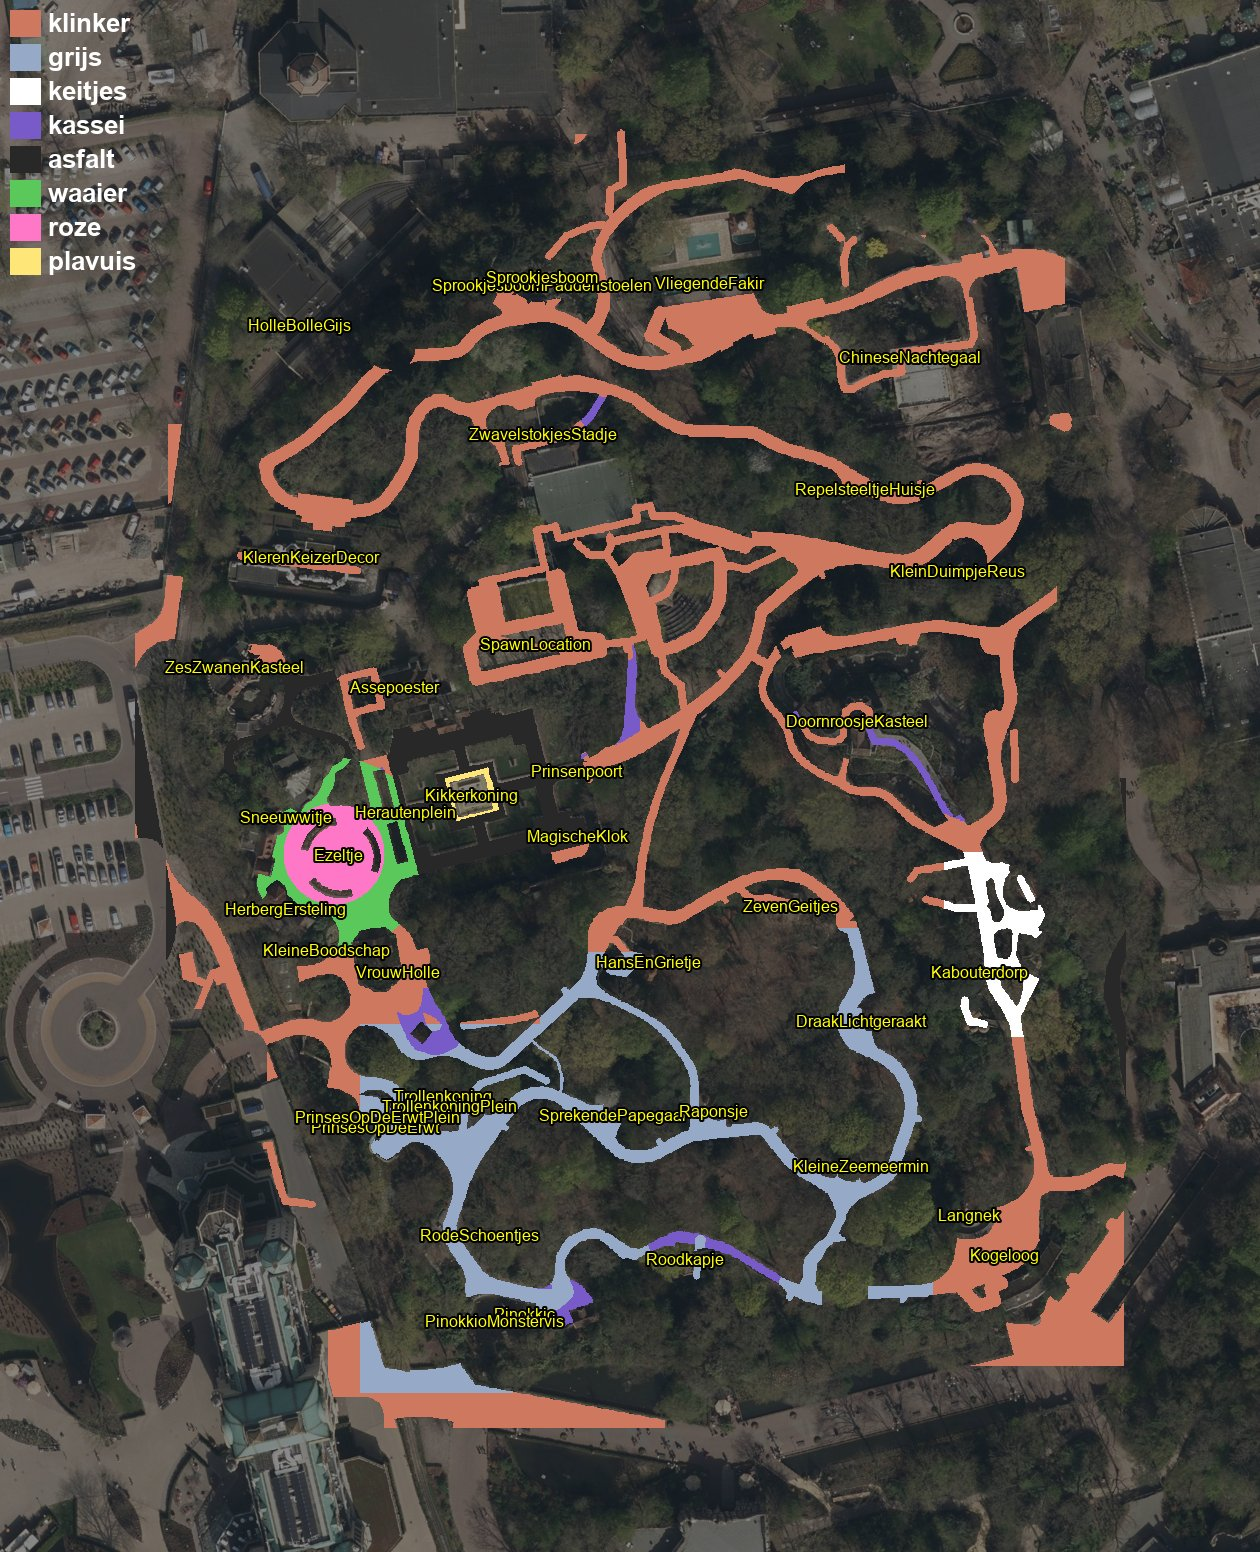
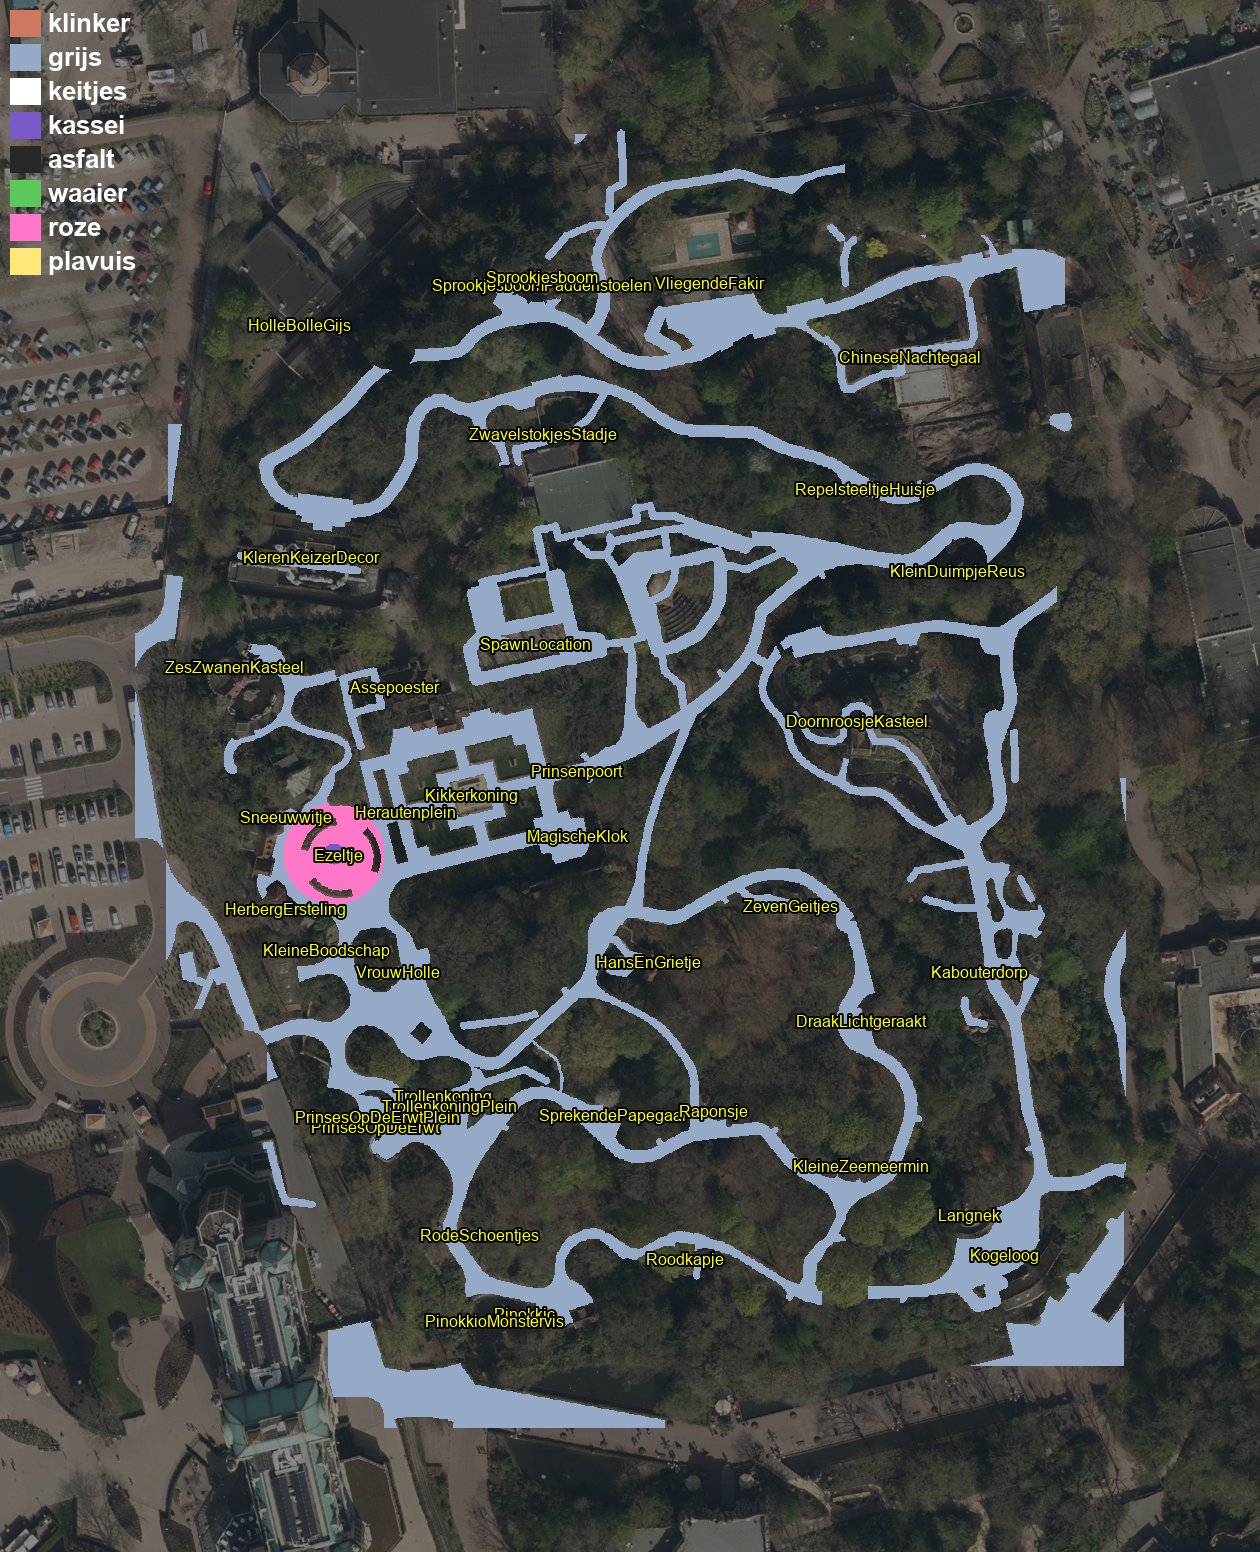
Paden ronde 3f: overal grijze visgraat, alleen het rondje op het Herautenplein wijkt af

diff --git a/models/PR_Paden/build/02_mesh.py b/models/PR_Paden/build/02_mesh.py
@@ -62,6 +62,9 @@ if _sett:
     ks = sz.difference(unary_union(hulp)).buffer(-0.1).buffer(0.1) if hulp else sz
     allp = unary_union([VL.get('klinker', Polygon()), VL.get('kassei', Polygon())])
     VL['kassei'] = ks.intersection(allp).buffer(0); VL['klinker'] = allp.difference(VL['kassei']).buffer(0)
+# eenheid (ref_zones.json): alle padvlakken krijgen hetzelfde soort bestrating; alleen zones (het rondje) wijken af
+_een = json.load(open(os.path.join(D, 'ref_zones.json'))).get('eenheid')
+if _een: VL = {_een: unary_union(list(VL.values())).buffer(0)}
 SURF = {k: v.intersection(Ui).buffer(0) for k, v in VL.items()}
 # --- zones (ref_zones.json): per plek een ander soort bestrating + eigen verbandrichting
 from shapely import affinity

diff --git a/STATUS.md b/STATUS.md
@@ -888,3 +888,8 @@ aangevuld met OSM-paden die > 3 m van een BGT-pad liggen (2,2 m / 3,5 m breed). 
 - Trollenkoningplein: het v1-grindpleintje is vervangen door een extra bestraat vlak (ref_zones.json 'extra_vlakken', vorm uit Studio) met lichtgrijze platen (video 35:00); de grasstrook tot het pad is gedicht, alleen strookjes die aan het plein grenzen, en het bestaande pad blijft grijze visgraat (pleinrand langs de padrand). TrollenkoningPlein.MAT_grind_0 -> V1PadVervangen.
 - Studio: MODEL 132138991118243, 451 delen met textuur (speltest gestopt om in Edit te plaatsen). Place nog niet opgeslagen.
 - Nog open: ronde verbredingen en het roze rondplein houden wat uitrekking (ringen); niet in Studio op screenshot gecontroleerd (capture reageerde niet), wel in Blender.
+
+### Ronde 3f (15 nov 2026): overal dezelfde visgraat
+- Daan: overal de gelegde steentjes, alleen het oranje rondje bij het plein niet. Nu: alle padvlakken grijze visgraatklinkers (`eenheid: grijs` in ref_zones.json, 02_mesh.py voegt alle soorten samen), ook waar eerder asfalt, kasseien, keitjes, waaier, platen (fontein, Trollenkoningplein) en de Herautentuin lagen. Alleen het rondje op het Herautenplein (roze ringen + kasseicirkel rond de sokkel) wijkt af.
+- De video-indeling (rood/grijs, kasseien, keitjes, waaier) staat nog in git-geschiedenis en de bouwcode (per_pad-zones, texturen) als het ooit terug moet.
+- Studio: MODEL 73836082264416, 395 delen met textuur. Niet op screenshot gecontroleerd in Studio (capture reageerde niet), wel in Blender. Place nog niet opgeslagen.
